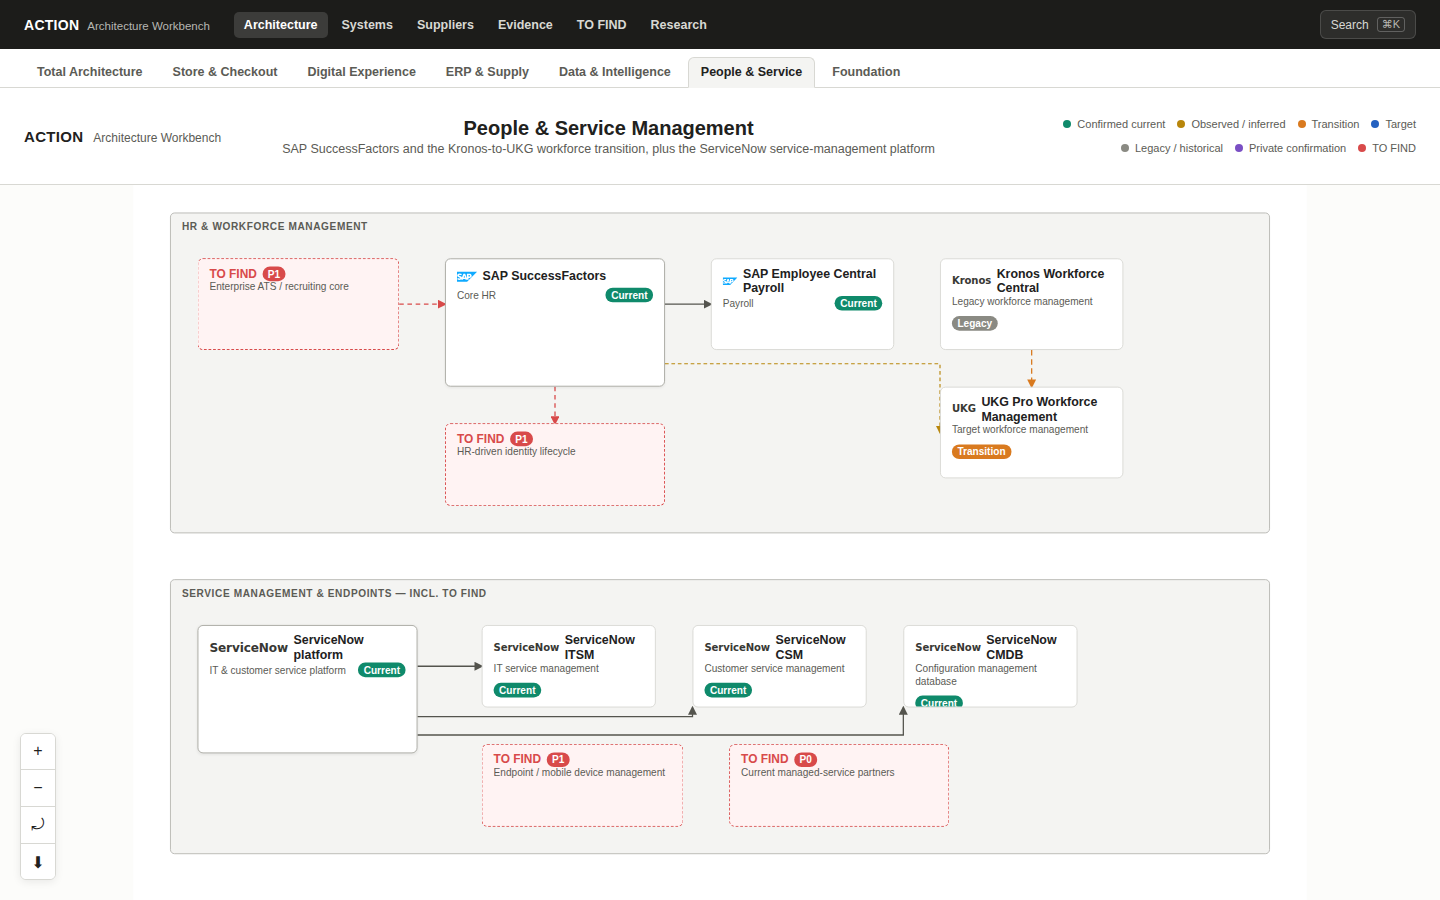
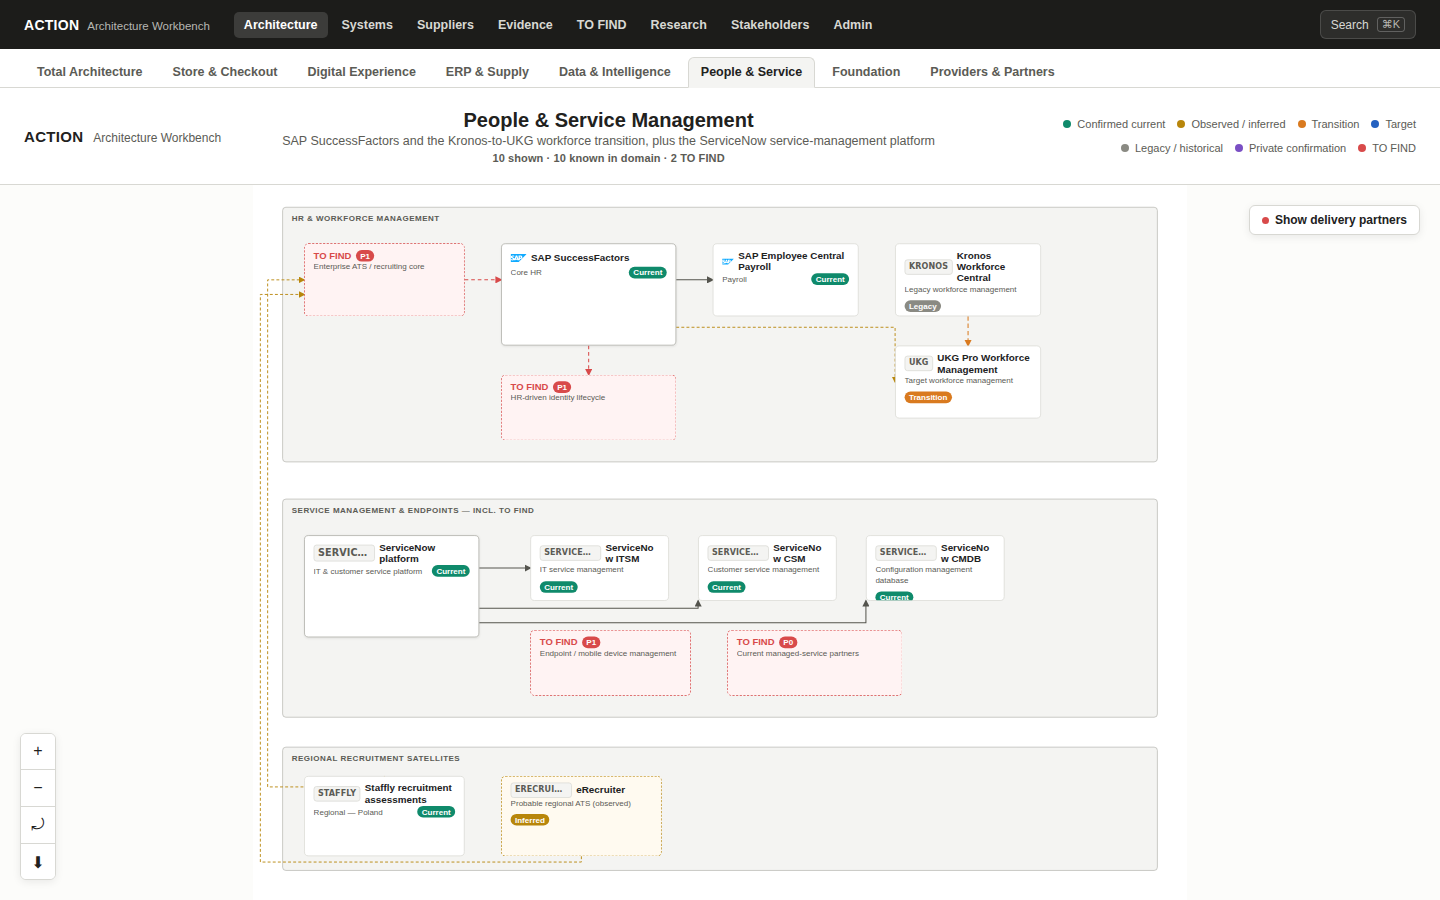
Fix vendor wordmark/title overflow and add per-view completeness counters
Restyles VendorLogo's typographic wordmark fallback as a small bordered badge
so it reads as a logo slot instead of running into the node title as one
duplicated label (e.g. "Ctac Ctac XV Unified Commerce"), while keeping the
existing "every vendor node renders a non-empty logo or wordmark" acceptance
test intact. Caught and fixed a regression from that same change during
verification: the badge's flex-shrink:0 forced all available width onto the
title, breaking long titles into per-letter fragments next to long wordmarks
like "Microsoft Azure" in narrow Foundation cards — fixed by capping the badge
width with an ellipsis truncation and giving the title first claim on
remaining space. Also adds a "N shown · M known in domain · K TO FIND"
completeness counter to every canvas view's header, computed from the view's
own domain(s) rather than a static string.

Claude-Session: https://claude.ai/code/session_01NrEhY6sa2zefiDG1jYchSY

diff --git a/src/lib/viewSummary.ts b/src/lib/viewSummary.ts
@@ -1,0 +1,55 @@
+// Per-view completeness counter (content-provider patch §9.10): "18 shown · 43 known in
+// domain · 9 TO FIND" — makes explicit that a curated canvas is never the full catalogue.
+import { components, researchGaps } from '@/data/fullCatalogue';
+import type { ArchitectureView } from '@/types/architecture';
+
+export interface ViewSummary {
+  readonly shown: number;
+  readonly knownInDomain: number;
+  readonly toFind: number;
+}
+
+/**
+ * Domain(s) each hand-curated view draws from, derived from the actual domain_id of every
+ * component the view's nodes cite (see docs/content-completeness-audit.md). Total
+ * Architecture spans every domain except DOM-PARTNERS, which has its own Providers &
+ * Partners page and counter.
+ */
+const VIEW_DOMAIN_IDS: Readonly<Record<string, readonly string[]>> = {
+  'total-architecture': [
+    'DOM-COMMERCE',
+    'DOM-STORE',
+    'DOM-DIGITAL',
+    'DOM-PAYMENTS',
+    'DOM-MARTECH',
+    'DOM-MERCH',
+    'DOM-ERP',
+    'DOM-SUPPLY',
+    'DOM-DATA',
+    'DOM-PEOPLE',
+    'DOM-INTEGRATION',
+    'DOM-CLOUD',
+    'DOM-FACILITY',
+  ],
+  'store-checkout': ['DOM-STORE'],
+  'digital-commerce': ['DOM-DIGITAL'],
+  'erp-supply': ['DOM-ERP', 'DOM-SUPPLY', 'DOM-MERCH'],
+  'data-intelligence': ['DOM-DATA'],
+  'people-service': ['DOM-PEOPLE'],
+  'foundation-security': ['DOM-CLOUD', 'DOM-INTEGRATION'],
+};
+
+export function buildViewSummary(view: ArchitectureView): ViewSummary {
+  const domainIds = VIEW_DOMAIN_IDS[view.id] ?? [];
+  const shown = view.nodes.filter((n) => n.kind !== 'gap').length;
+  if (domainIds.length === 0) {
+    return { shown, knownInDomain: shown, toFind: 0 };
+  }
+  const knownInDomain = components.filter((c) => domainIds.includes(c.domain_id)).length;
+  const toFind = researchGaps.filter((g) => domainIds.includes(g.domain_id)).length;
+  return { shown, knownInDomain, toFind };
+}
+
+export function formatViewSummary(summary: ViewSummary): string {
+  return `${summary.shown} shown · ${summary.knownInDomain} known in domain · ${summary.toFind} TO FIND`;
+}

diff --git a/tests/unit/viewSummary.test.ts b/tests/unit/viewSummary.test.ts
@@ -1,0 +1,24 @@
+import { describe, expect, it } from 'vitest';
+import { buildViewSummary, formatViewSummary } from '../../src/lib/viewSummary';
+import { totalArchitectureView } from '../../src/data/curatedView';
+import { storeCheckoutView, erpSupplyView } from '../../src/data/deepDiveViews';
+
+describe('buildViewSummary', () => {
+  it('counts only non-gap top-level nodes as "shown"', () => {
+    const summary = buildViewSummary(storeCheckoutView);
+    const nonGapCount = storeCheckoutView.nodes.filter((n) => n.kind !== 'gap').length;
+    expect(summary.shown).toBe(nonGapCount);
+  });
+
+  it('known-in-domain is always at least what is shown, for every canvas view', () => {
+    for (const view of [totalArchitectureView, storeCheckoutView, erpSupplyView]) {
+      const summary = buildViewSummary(view);
+      expect(summary.knownInDomain).toBeGreaterThanOrEqual(summary.shown);
+    }
+  });
+
+  it('formats as "N shown · M known in domain · K TO FIND"', () => {
+    const summary = { shown: 18, knownInDomain: 43, toFind: 9 };
+    expect(formatViewSummary(summary)).toBe('18 shown · 43 known in domain · 9 TO FIND');
+  });
+});

diff --git a/src/components/logo/VendorLogo.module.css b/src/components/logo/VendorLogo.module.css
@@ -3,10 +3,29 @@
   display: block;
 }
 
+/*
+ * Rendered as a small badge/chip, not inline text — a bare bold wordmark sitting directly
+ * beside a bold node title reads as a duplicated label (e.g. "Ctac Ctac XV Unified Commerce"),
+ * the content-provider patch's §9.1 defect. The chip treatment marks it as a logo slot instead.
+ */
 .wordmark {
+  display: inline-block;
+  flex-shrink: 0;
+  /* Caps how much a long vendor name (e.g. "Microsoft Azure") can squeeze the node title in
+     a narrow card — truncates itself with an ellipsis rather than starving the title down
+     to a per-letter wrap. */
+  max-width: 84px;
+  overflow: hidden;
+  text-overflow: ellipsis;
   font-weight: 700;
   font-family: 'Inter', 'Source Sans 3', system-ui, sans-serif;
-  color: #383834;
+  color: var(--color-ink-muted);
   white-space: nowrap;
-  letter-spacing: -0.01em;
+  letter-spacing: 0.01em;
+  text-transform: uppercase;
+  background: var(--color-group-bg);
+  border: 1px solid var(--color-card-border);
+  border-radius: 4px;
+  padding: 1px 5px;
+  line-height: 1.5;
 }

diff --git a/src/components/shell/AppHeader.tsx b/src/components/shell/AppHeader.tsx
@@ -3,6 +3,7 @@ import styles from './AppHeader.module.css';
 interface AppHeaderProps {
   readonly title: string;
   readonly subtitle?: string;
+  readonly summary?: string;
 }
 
 const LEGEND: ReadonlyArray<{ label: string; color: string }> = [
@@ -15,7 +16,7 @@ const LEGEND: ReadonlyArray<{ label: string; color: string }> = [
   { label: 'TO FIND', color: 'var(--color-gap-border)' },
 ];
 
-export function AppHeader({ title, subtitle }: AppHeaderProps) {
+export function AppHeader({ title, subtitle, summary }: AppHeaderProps) {
   return (
     <header className={styles.header}>
       <div className={styles.brand}>
@@ -25,6 +26,7 @@ export function AppHeader({ title, subtitle }: AppHeaderProps) {
       <div className={styles.titles}>
         <h1 className={styles.title}>{title}</h1>
         {subtitle ? <p className={styles.subtitle}>{subtitle}</p> : null}
+        {summary ? <p className={styles.summary} data-testid="view-summary">{summary}</p> : null}
       </div>
       <ul className={styles.legend} aria-label="Status legend">
         {LEGEND.map((item) => (

diff --git a/src/pages/ArchitectureViewPage.tsx b/src/pages/ArchitectureViewPage.tsx
@@ -4,6 +4,7 @@ import { AppHeader } from '@/components/shell/AppHeader';
 import { DomainTabs, type DomainTabKey } from '@/components/shell/DomainTabs';
 import { ArchitectureCanvas } from '@/components/canvas/ArchitectureCanvas';
 import { DetailDrawer } from '@/components/drawer/DetailDrawer';
+import { buildViewSummary, formatViewSummary } from '@/lib/viewSummary';
 import styles from './ArchitecturePage.module.css';
 
 interface ArchitectureViewPageProps {
@@ -26,7 +27,7 @@ export function ArchitectureViewPage({ view, tabKey, exportFileName }: Architect
   return (
     <div className={styles.page}>
       <DomainTabs current={tabKey} />
-      <AppHeader title={view.title} subtitle={view.subtitle} />
+      <AppHeader title={view.title} subtitle={view.subtitle} summary={formatViewSummary(buildViewSummary(view))} />
       <ArchitectureCanvas view={view} onSelectNode={selectNode} exportFileName={exportFileName} />
       <DetailDrawer nodes={view.nodes} nodeId={selectedNodeId} onClose={() => selectNode(null)} />
     </div>

diff --git a/src/components/shell/AppHeader.module.css b/src/components/shell/AppHeader.module.css
@@ -46,6 +46,14 @@
   margin: 2px 0 0;
 }
 
+.summary {
+  font-size: 11px;
+  font-weight: 600;
+  color: var(--color-ink-muted);
+  margin: 4px 0 0;
+  letter-spacing: 0.01em;
+}
+
 .legend {
   display: flex;
   gap: 12px;

diff --git a/src/components/nodes/NodeCard.module.css b/src/components/nodes/NodeCard.module.css
@@ -59,6 +59,7 @@
   font-weight: 700;
   margin: 0;
   line-height: 1.15;
+  flex: 1 1 auto;
   min-width: 0;
   overflow-wrap: break-word;
   width: 100%;
